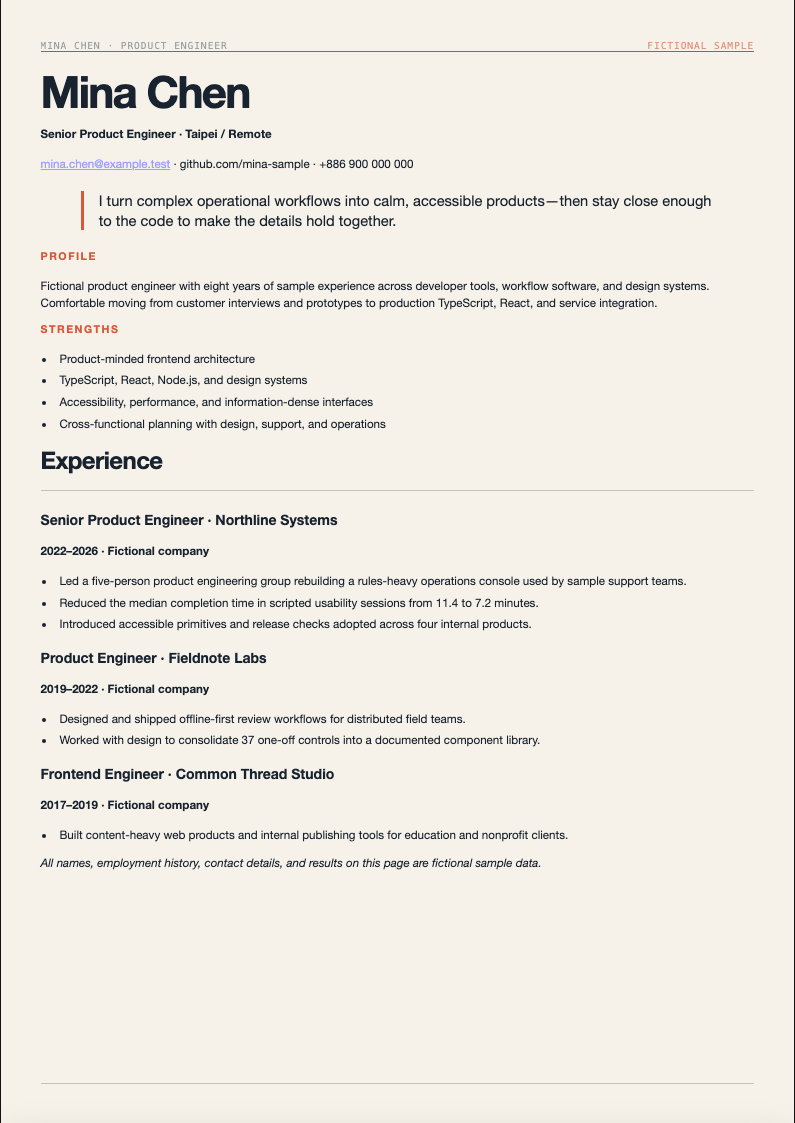
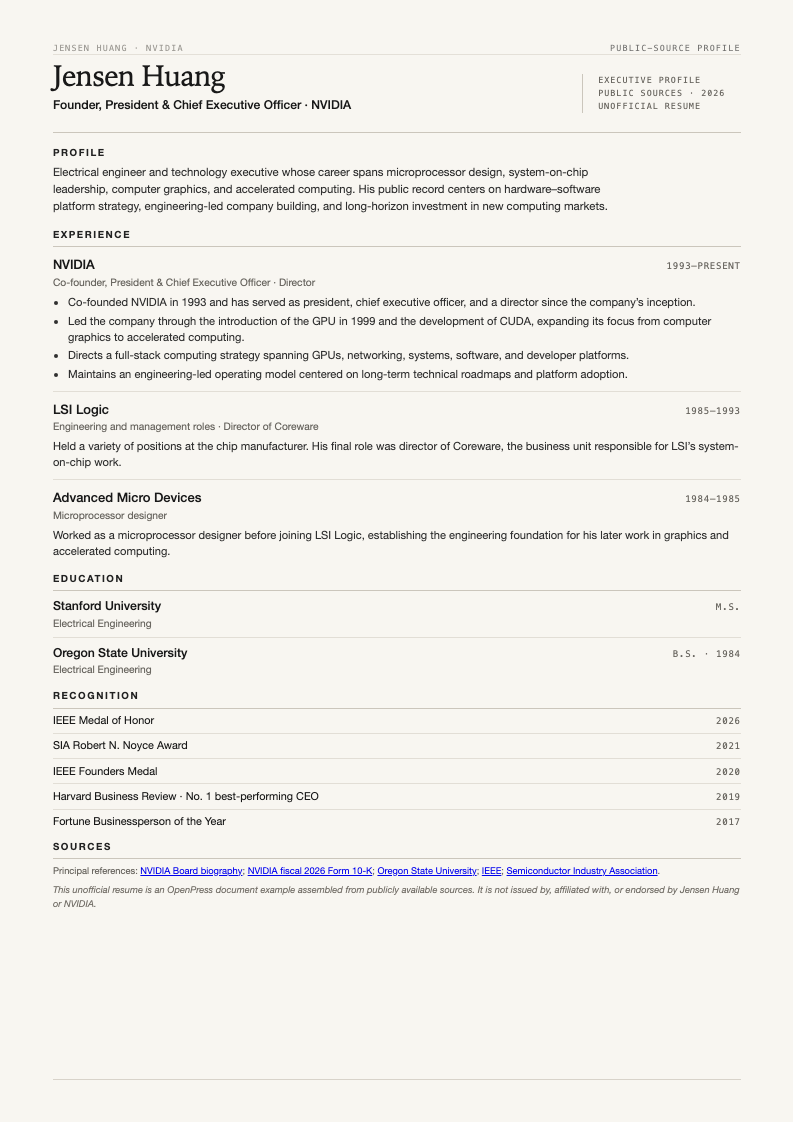
[core] refresh live document showcases

diff --git a/apps/web/src/data/showcases.ts b/apps/web/src/data/showcases.ts
@@ -47,20 +47,22 @@ export const showcases: Record<"zh-tw" | "en" | "ja", ShowcaseItem[]> = {
     },
     {
       slug: "resume",
-      title: "虛構產品工程師履歷",
-      description: "兩頁完成版履歷，從個人摘要、經歷一路到精選作品。",
-      audience: "需要快速製作專業履歷的工程師與求職者。",
+      title: "黃仁勳公開資料履歷",
+      href: "https://open-press-resume.pages.dev/resume/preview#page-01",
+      description: "將可查證的公開資料整理成一頁式主管履歷。",
+      audience: "想把公開經歷整理成正式履歷的主管、研究者與文件作者。",
       documentType: "履歷",
-      sourceMaterial: "虛構職涯經歷、專案成果、技能與學歷。",
-      prompt: "把這份虛構產品工程師的職涯資料整理成兩頁履歷。優先呈現可驗證的工作成果、角色範圍與產品判斷，保持資訊密度，但不要犧牲掃讀性。所有姓名、公司與成果都要標示為示範資料。",
+      sourceMaterial: "NVIDIA 官方簡介、公開申報文件、大學資料與獎項紀錄。",
+      prompt: "根據可查證的公開來源，整理一份黃仁勳的一頁式主管履歷。只採用來源能支持的職涯、學歷與獎項資訊，保留來源連結，並清楚標示這是非官方履歷。",
       cover: asset("resume", "cover.png"),
-      pages: [asset("resume", "cover.png"), asset("resume", "page-02.png")],
-      pageCount: 2,
-      proof: "demo",
+      pages: [asset("resume", "cover.png")],
+      pageCount: 1,
+      proof: "real",
     },
     {
       slug: "school-report",
       title: "虛構學校報告",
+      href: "https://open-press-school-report.pages.dev/school-report/preview#page-01",
       description: "從研究問題、方法到觀察與反思的五頁完整報告。",
       audience: "想把課堂作業整理成正式文件的學生與教師。",
       documentType: "學校報告",
@@ -74,6 +76,7 @@ export const showcases: Record<"zh-tw" | "en" | "ja", ShowcaseItem[]> = {
     {
       slug: "financial-report",
       title: "虛構年度財務報告",
+      href: "https://open-press-financial-report.pages.dev/financial-report/preview#page-01",
       description: "含損益、資產負債與現金流的八頁年度報告。",
       audience: "需要財務敘事與報表版型的創業者、分析師與設計者。",
       documentType: "年度財務報告",
@@ -87,6 +90,7 @@ export const showcases: Record<"zh-tw" | "en" | "ja", ShowcaseItem[]> = {
     {
       slug: "thesis",
       title: "經典學位論文模板",
+      href: "https://open-press-thesis.pages.dev/thesis/preview#page-01",
       description: "以虛構城市熱研究填滿的十頁經典論文範例。",
       audience: "需要傳統論文結構與排版起點的研究生與學術作者。",
       documentType: "學位論文",
@@ -112,22 +116,22 @@ export const showcases: Record<"zh-tw" | "en" | "ja", ShowcaseItem[]> = {
       cover: asset("data-structure-notes", "cover.png"), pages: [asset("data-structure-notes", "cover.png"), asset("data-structure-notes", "page-08.png")], pageCount: 158, proof: "real",
     },
     {
-      slug: "resume", title: "Fictional Product Engineer Resume", description: "A complete two-page resume, from profile and experience to selected work.", audience: "Engineers and job seekers who need a professional resume quickly.", documentType: "Resume", sourceMaterial: "Fictional work history, project outcomes, skills, and education.",
-      prompt: "Turn this fictional product engineer career history into a two-page resume. Lead with concrete outcomes, role scope, and product judgment while keeping it easy to scan. Mark every name, company, and result as sample data.",
-      cover: asset("resume", "cover.png"), pages: [asset("resume", "cover.png"), asset("resume", "page-02.png")], pageCount: 2, proof: "demo",
+      slug: "resume", title: "Jensen Huang Public-Source Resume", href: "https://open-press-resume.pages.dev/resume/preview#page-01", description: "A one-page executive resume assembled from verifiable public sources.", audience: "Executives, researchers, and document authors turning public career records into a formal resume.", documentType: "Resume", sourceMaterial: "NVIDIA biographies, public filings, university records, and award citations.",
+      prompt: "Create a one-page executive resume for Jensen Huang from verifiable public sources. Include only career, education, and recognition details supported by those sources, preserve the source links, and label the result as an unofficial resume.",
+      cover: asset("resume", "cover.png"), pages: [asset("resume", "cover.png")], pageCount: 1, proof: "real",
     },
     {
-      slug: "school-report", title: "Fictional School Report", description: "A five-page report covering the question, method, observations, and reflection.", audience: "Students and teachers turning classwork into a formal document.", documentType: "School report", sourceMaterial: "Fictional survey data, observation notes, a research question, and reference formatting.",
+      slug: "school-report", title: "Fictional School Report", href: "https://open-press-school-report.pages.dev/school-report/preview#page-01", description: "A five-page report covering the question, method, observations, and reflection.", audience: "Students and teachers turning classwork into a formal document.", documentType: "School report", sourceMaterial: "Fictional survey data, observation notes, a research question, and reference formatting.",
       prompt: "Complete a school report on dog ownership, confidence, and companionship. Include the question, method, sample data, charts, discussion, limitations, and reflection. State clearly that every participant, value, and quotation is fictional.",
       cover: asset("school-report", "cover.png"), pages: [asset("school-report", "cover.png"), asset("school-report", "page-03.png")], pageCount: 5, proof: "demo",
     },
     {
-      slug: "financial-report", title: "Fictional Annual Financial Report", description: "An eight-page annual report with operations, position, and cash-flow statements.", audience: "Founders, analysts, and designers who need a financial narrative and statement layout.", documentType: "Annual financial report", sourceMaterial: "Recalculable fictional financial data, an operating summary, and accounting notes.",
+      slug: "financial-report", title: "Fictional Annual Financial Report", href: "https://open-press-financial-report.pages.dev/financial-report/preview#page-01", description: "An eight-page annual report with operations, position, and cash-flow statements.", audience: "Founders, analysts, and designers who need a financial narrative and statement layout.", documentType: "Annual financial report", sourceMaterial: "Recalculable fictional financial data, an operating summary, and accounting notes.",
       prompt: "Use this recalculable fictional dataset to create the Northstar Goods 2025 annual report. Reconcile the narrative with the operations, financial position, and cash-flow statements. Label it as demo data and not financial advice; invent no performance or forecasts.",
       cover: asset("financial-report", "cover.png"), pages: [asset("financial-report", "cover.png"), asset("financial-report", "page-03.png"), asset("financial-report", "page-04.png")], pageCount: 8, proof: "demo",
     },
     {
-      slug: "thesis", title: "Classic Degree Thesis Template", description: "A ten-page classic thesis example filled with a fictional urban-heat study.", audience: "Graduate students and academic authors who need a traditional thesis starting point.", documentType: "Degree thesis", sourceMaterial: "A fictional question, method, 96 sample observations, and reference formatting.",
+      slug: "thesis", title: "Classic Degree Thesis Template", href: "https://open-press-thesis.pages.dev/thesis/preview#page-01", description: "A ten-page classic thesis example filled with a fictional urban-heat study.", audience: "Graduate students and academic authors who need a traditional thesis starting point.", documentType: "Degree thesis", sourceMaterial: "A fictional question, method, 96 sample observations, and reference formatting.",
       prompt: "Use a classic degree-thesis structure to turn the fictional street-shade and thermal-comfort dataset into a completed example. Include the abstract, contents, literature context, method, results, discussion, conclusion, and references, and mark the university and data as fictional throughout.",
       cover: asset("thesis", "cover.png"), pages: [asset("thesis", "cover.png"), asset("thesis", "page-02.png"), asset("thesis", "page-06.png")], pageCount: 10, proof: "demo",
     },
@@ -146,22 +150,22 @@ export const showcases: Record<"zh-tw" | "en" | "ja", ShowcaseItem[]> = {
       cover: asset("data-structure-notes", "cover.png"), pages: [asset("data-structure-notes", "cover.png"), asset("data-structure-notes", "page-08.png")], pageCount: 158, proof: "real",
     },
     {
-      slug: "resume", title: "架空のプロダクトエンジニア履歴書", description: "プロフィール、職歴、実績をまとめた完成版2ページ履歴書。", audience: "短時間で専門的な履歴書を作りたいエンジニアと求職者。", documentType: "履歴書", sourceMaterial: "架空の職歴、成果、スキル、学歴。",
-      prompt: "架空のプロダクトエンジニアの経歴を2ページの履歴書にしてください。具体的な成果、役割の範囲、プロダクト判断を優先し、読みやすさを保ってください。氏名、会社、成果はすべてサンプルだと明示してください。",
-      cover: asset("resume", "cover.png"), pages: [asset("resume", "cover.png"), asset("resume", "page-02.png")], pageCount: 2, proof: "demo",
+      slug: "resume", title: "ジェンスン・フアン公開情報履歴書", href: "https://open-press-resume.pages.dev/resume/preview#page-01", description: "検証可能な公開情報を1ページに整理したエグゼクティブ履歴書。", audience: "公開された経歴を正式な履歴書にまとめたい経営者、研究者、ドキュメント作成者。", documentType: "履歴書", sourceMaterial: "NVIDIAの公式略歴、公開資料、大学資料、受賞記録。",
+      prompt: "検証可能な公開情報に基づき、ジェンスン・フアンの1ページのエグゼクティブ履歴書を作成してください。出典で確認できる職歴、学歴、受賞歴だけを使用し、出典リンクを残して、非公式の履歴書であることを明記してください。",
+      cover: asset("resume", "cover.png"), pages: [asset("resume", "cover.png")], pageCount: 1, proof: "real",
     },
     {
-      slug: "school-report", title: "架空の学校レポート", description: "問い、方法、観察、考察を収めた5ページの完成レポート。", audience: "授業課題を正式な文書にしたい学生と教師。", documentType: "学校レポート", sourceMaterial: "架空のアンケート、観察記録、研究課題、参考文献形式。",
+      slug: "school-report", title: "架空の学校レポート", href: "https://open-press-school-report.pages.dev/school-report/preview#page-01", description: "問い、方法、観察、考察を収めた5ページの完成レポート。", audience: "授業課題を正式な文書にしたい学生と教師。", documentType: "学校レポート", sourceMaterial: "架空のアンケート、観察記録、研究課題、参考文献形式。",
       prompt: "犬との暮らし、自信、仲間意識をテーマに学校レポートを完成させてください。研究課題、方法、サンプルデータ、図表、考察、限界、振り返りを含め、人物、数値、引用がすべて架空であることを明示してください。",
       cover: asset("school-report", "cover.png"), pages: [asset("school-report", "cover.png"), asset("school-report", "page-03.png")], pageCount: 5, proof: "demo",
     },
     {
-      slug: "financial-report", title: "架空の年次財務報告書", description: "損益、財政状態、キャッシュフローを含む8ページの年次報告書。", audience: "財務ストーリーと計算書レイアウトが必要な創業者、分析者、デザイナー。", documentType: "年次財務報告書", sourceMaterial: "再計算できる架空の財務データ、事業概要、会計注記。",
+      slug: "financial-report", title: "架空の年次財務報告書", href: "https://open-press-financial-report.pages.dev/financial-report/preview#page-01", description: "損益、財政状態、キャッシュフローを含む8ページの年次報告書。", audience: "財務ストーリーと計算書レイアウトが必要な創業者、分析者、デザイナー。", documentType: "年次財務報告書", sourceMaterial: "再計算できる架空の財務データ、事業概要、会計注記。",
       prompt: "再計算可能な架空データを使い、Northstar Goodsの2025年次報告書を作成してください。事業説明と損益、財政状態、キャッシュフローを一致させ、デモデータかつ投資助言ではないと明示し、存在しない実績や予測を加えないでください。",
       cover: asset("financial-report", "cover.png"), pages: [asset("financial-report", "cover.png"), asset("financial-report", "page-03.png"), asset("financial-report", "page-04.png")], pageCount: 8, proof: "demo",
     },
     {
-      slug: "thesis", title: "クラシック学位論文テンプレート", description: "架空の都市熱研究を収めた10ページのクラシック論文例。", audience: "伝統的な論文構成と組版の起点が必要な大学院生と研究者。", documentType: "学位論文", sourceMaterial: "架空の問い、方法、96件のサンプル観察、参考文献形式。",
+      slug: "thesis", title: "クラシック学位論文テンプレート", href: "https://open-press-thesis.pages.dev/thesis/preview#page-01", description: "架空の都市熱研究を収めた10ページのクラシック論文例。", audience: "伝統的な論文構成と組版の起点が必要な大学院生と研究者。", documentType: "学位論文", sourceMaterial: "架空の問い、方法、96件のサンプル観察、参考文献形式。",
       prompt: "クラシックな学位論文の形式で、架空の街路日陰と熱快適性データを完成例にしてください。要旨、目次、文献背景、方法、結果、考察、結論、参考文献を含め、大学とデータが架空であることを全編で明示してください。",
       cover: asset("thesis", "cover.png"), pages: [asset("thesis", "cover.png"), asset("thesis", "page-02.png"), asset("thesis", "page-06.png")], pageCount: 10, proof: "demo",
     },
